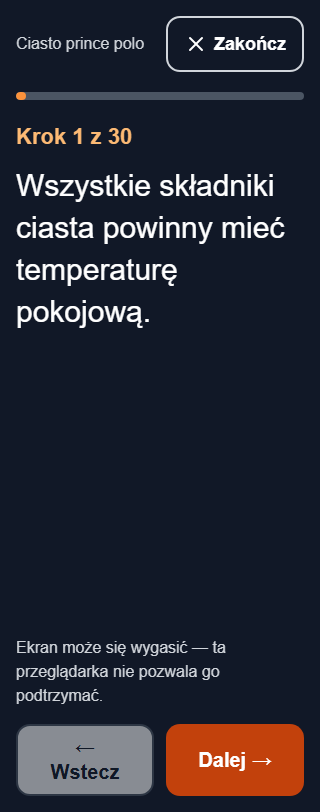
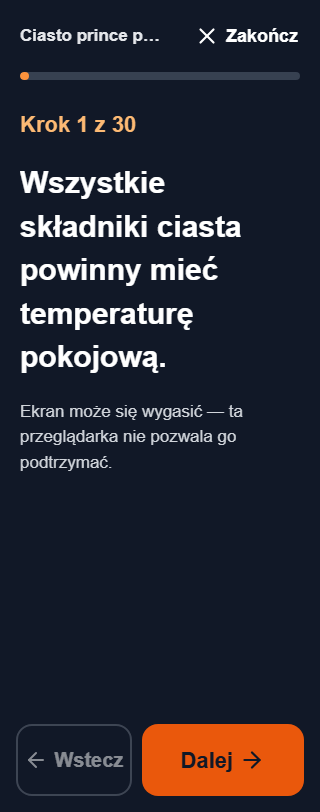
feat(e01-s08): align cooking mode with the design handoff (C3 item 7, C4)

diff --git a/src/app/przepis/[slug]/_components/cooking-mode.tsx b/src/app/przepis/[slug]/_components/cooking-mode.tsx
@@ -1,8 +1,7 @@
 'use client'
 
 import { useCallback, useEffect, useRef, useState } from 'react'
-import { ChefHat, X } from 'lucide-react'
-import { buttonClasses } from '@/app/components/ui/button'
+import { ArrowLeft, ArrowRight, Check, ChefHat, Sun, X } from 'lucide-react'
 import { clampStep, isLastStep, progressRatio, progressSegments, stepLabel } from '@/lib/cooking-mode'
 import { createScreenWakeLock, type ScreenWakeLock } from '@/lib/wake-lock'
 
@@ -168,13 +167,14 @@ export function CookingMode({ title, steps }: CookingModeProps) {
 
   return (
     <>
+      {/* Handoff C3 item 7: dark, 58 px, full width (white on #111827). */}
       <button
         type="button"
         ref={triggerRef}
         onClick={start}
         aria-haspopup="dialog"
         aria-controls="cooking-mode"
-        className={`${buttonClasses('primary', 'lg')} w-full sm:w-auto`}
+        className="inline-flex min-h-[58px] w-full items-center justify-center gap-2.5 rounded-field bg-ink px-5 text-[19px] font-bold text-white hover:bg-ink-soft"
       >
         <ChefHat aria-hidden="true" className="h-6 w-6" />
         Tryb gotowania
@@ -196,13 +196,14 @@ export function CookingMode({ title, steps }: CookingModeProps) {
         // because the global rule is unlayered and would beat a layered utility).
         className="fixed inset-0 m-0 h-dvh max-h-none w-full max-w-none bg-surface-dark p-0 text-white backdrop:bg-surface-dark [&_:focus-visible]:outline-accent-dark!"
       >
-        <div className="mx-auto flex h-full max-w-3xl flex-col px-4 pt-4 pb-4 sm:px-8 sm:pt-6">
-          <div className="flex items-center justify-between gap-3">
+        {/* Layout and colours follow the design handoff, screen C4. */}
+        <div className="mx-auto flex h-full max-w-3xl flex-col">
+          <div className="flex items-center justify-between gap-3 py-2 pr-2 pl-5">
             <h2
               id="cooking-mode-title"
               ref={headingRef}
               tabIndex={-1}
-              className="min-w-0 truncate text-[16px] font-normal text-border-card-2"
+              className="min-w-0 truncate text-[17px] font-bold text-border-card"
             >
               <span className="sr-only">Tryb gotowania: </span>
               {title}
@@ -210,9 +211,9 @@ export function CookingMode({ title, steps }: CookingModeProps) {
             <button
               type="button"
               onClick={finish}
-              className="inline-flex min-h-[56px] shrink-0 items-center gap-1.5 rounded-field border-2 border-border-card-2 px-4 text-[18px] font-bold text-white hover:bg-white/10"
+              className="inline-flex min-h-[56px] shrink-0 items-center gap-1.5 rounded-field px-3.5 text-[18px] font-bold text-white hover:bg-white/10"
             >
-              <X aria-hidden="true" className="h-6 w-6" />
+              <X aria-hidden="true" className="h-[26px] w-[26px]" />
               Zakończ
             </button>
           </div>
@@ -224,17 +225,17 @@ export function CookingMode({ title, steps }: CookingModeProps) {
             aria-valuemax={total}
             aria-valuenow={current + 1}
             aria-valuetext={stepLabel(current, total)}
-            className="mt-5 mb-5 flex h-2 gap-1"
+            className="flex h-2 gap-1.5 px-5"
           >
             {segments ? (
               segments.map((state, i) => (
                 <span
                   key={i}
-                  className={`h-full flex-1 rounded-pill ${state === 'todo' ? 'bg-ink-muted' : 'bg-progress'}`}
+                  className={`h-full flex-1 rounded-pill ${state === 'todo' ? 'bg-ink-soft' : 'bg-progress'}`}
                 />
               ))
             ) : (
-              <span className="h-full flex-1 overflow-hidden rounded-pill bg-ink-muted">
+              <span className="h-full flex-1 overflow-hidden rounded-pill bg-ink-soft">
                 <span
                   className="block h-full rounded-pill bg-progress transition-[width] motion-reduce:transition-none"
                   style={{ width: `${progressRatio(current, total) * 100}%` }}
@@ -243,34 +244,50 @@ export function CookingMode({ title, steps }: CookingModeProps) {
             )}
           </div>
 
-          {/* Announced after every "Dalej" / "Wstecz". */}
-          <div aria-live="polite" className="flex min-h-0 flex-1 flex-col">
-            <p className="mb-3 text-[22px] font-bold text-accent-dark">{stepLabel(current, total)}</p>
-            <p className="min-h-0 flex-1 overflow-y-auto text-[30px] leading-[1.4] break-words">{steps[current]}</p>
+          <div className="flex min-h-0 flex-1 flex-col gap-5 px-5 pt-7 pb-4">
+            {/* Announced after every "Dalej" / "Wstecz". */}
+            <div aria-live="polite" className="flex min-h-0 flex-col gap-5">
+              <p className="text-[22px] font-bold text-accent-dark">{stepLabel(current, total)}</p>
+              <p className="min-h-0 overflow-y-auto text-[30px] leading-[1.45] font-semibold text-pretty break-words">
+                {steps[current]}
+              </p>
+            </div>
+            {wakeLock === true && (
+              <p className="flex items-center gap-2 text-[17px] text-border-card-2">
+                <Sun aria-hidden="true" className="h-5 w-5 shrink-0" />
+                Ekran nie wygaśnie podczas gotowania
+              </p>
+            )}
+            {wakeLock === false && (
+              <p className="text-[17px] text-border-card-2">
+                Ekran może się wygasić — ta przeglądarka nie pozwala go podtrzymać.
+              </p>
+            )}
           </div>
 
-          {wakeLock === false && (
-            <p className="mt-3 text-[16px] text-border-card-2">
-              Ekran może się wygasić — ta przeglądarka nie pozwala go podtrzymać.
-            </p>
-          )}
-
-          <div className="mt-4 grid grid-cols-2 gap-3">
+          <div className="grid grid-cols-[1fr_1.4fr] gap-2.5 p-4">
             <button
               type="button"
               onClick={() => go(-1)}
               disabled={current === 0}
-              className={buttonClasses('outline', 'xl')}
+              className="inline-flex min-h-[72px] items-center justify-center gap-1.5 rounded-card border-2 border-border-dark text-[20px] font-bold text-white hover:bg-white/10 disabled:cursor-not-allowed disabled:opacity-50"
             >
-              ← Wstecz
+              <ArrowLeft aria-hidden="true" className="h-6 w-6" />
+              Wstecz
             </button>
+            {/* #ea580c only ever with dark text (5.6:1), never white. */}
             <button
               type="button"
               ref={nextRef}
               onClick={() => (last ? finish() : go(1))}
-              className={buttonClasses('primary', 'xl')}
+              className="inline-flex min-h-[72px] items-center justify-center gap-1.5 rounded-card bg-orange-bright text-[22px] font-bold text-ink hover:bg-progress"
             >
-              {last ? 'Gotowe ✓' : 'Dalej →'}
+              {last ? 'Gotowe' : 'Dalej'}
+              {last ? (
+                <Check aria-hidden="true" className="h-[26px] w-[26px]" />
+              ) : (
+                <ArrowRight aria-hidden="true" className="h-[26px] w-[26px]" />
+              )}
             </button>
           </div>
         </div>

diff --git a/src/app/przepis/[slug]/_components/recipe-checklists.tsx b/src/app/przepis/[slug]/_components/recipe-checklists.tsx
@@ -12,6 +12,7 @@ import {
   type ChecklistKind,
 } from '@/lib/recipe-checklist'
 import type { Ingredient } from '@/lib/ingredients'
+import { CookingMode } from './cooking-mode'
 
 interface IngredientGroup {
   section: string | null
@@ -20,6 +21,8 @@ interface IngredientGroup {
 
 interface RecipeChecklistsProps {
   recipeId: number
+  /** Recipe title, shown at the top of cooking mode. */
+  title: string
   ingredientGroups: IngredientGroup[]
   steps: string[]
 }
@@ -58,8 +61,9 @@ function CheckRow({
 /**
  * Składniki + Przygotowanie for the recipe page (E01-S07): ticks are kept per tab in
  * sessionStorage, steps read "Krok N z M", and "Wielkość tekstu" scales both lists.
+ * "Tryb gotowania" (E01-S08) follows "Wielkość tekstu", as in the design handoff (C3, item 7).
  */
-export function RecipeChecklists({ recipeId, ingredientGroups, steps }: RecipeChecklistsProps) {
+export function RecipeChecklists({ recipeId, title, ingredientGroups, steps }: RecipeChecklistsProps) {
   const { level, setLevel, scaleStyle } = useTextScale()
   const [raw, setRaw] = useSessionStorage(checklistStorageKey(recipeId))
   const state = useMemo(() => parseChecklist(raw), [raw])
@@ -86,6 +90,12 @@ export function RecipeChecklists({ recipeId, ingredientGroups, steps }: RecipeCh
           </button>
         )}
       </div>
+
+      {steps.length > 0 && (
+        <div className="mb-8">
+          <CookingMode title={title} steps={steps} />
+        </div>
+      )}
 
       <section aria-labelledby="ingredients-heading" className="mb-10">
         <h2 id="ingredients-heading" className="mb-3 text-[26px] font-bold text-ink">

diff --git a/src/app/przepis/[slug]/_components/recipe-actions.tsx b/src/app/przepis/[slug]/_components/recipe-actions.tsx
@@ -1,23 +1,20 @@
 import { FavoriteButton } from '@/app/components/favorite-button'
-import { CookingMode } from './cooking-mode'
 
 interface RecipeActionsProps {
   recipeId: number
   isFavorite: boolean
   isAuthenticated: boolean
-  title: string
-  steps: string[]
 }
 
 /**
  * The recipe page's action row (E01-S07). The heart's behaviour belongs to E01-S06
- * (FavoriteButton is passed through unchanged); "Tryb gotowania" is E01-S08.
+ * (FavoriteButton is passed through unchanged). E01-S08's "Tryb gotowania" sits below
+ * "Wielkość tekstu" in RecipeChecklists (design handoff C3, item 7).
  */
-export function RecipeActions({ recipeId, isFavorite, isAuthenticated, title, steps }: RecipeActionsProps) {
+export function RecipeActions({ recipeId, isFavorite, isAuthenticated }: RecipeActionsProps) {
   return (
     <div className="mb-8 flex flex-wrap items-center gap-3">
       <FavoriteButton recipeId={recipeId} initialFavorited={isFavorite} isAuthenticated={isAuthenticated} />
-      <CookingMode title={title} steps={steps} />
     </div>
   )
 }

diff --git a/src/app/przepis/[slug]/page.tsx b/src/app/przepis/[slug]/page.tsx
@@ -172,10 +172,13 @@ export default async function RecipeDetailPage({ params, searchParams }: RecipeD
           recipeId={typedRecipe.id}
           isFavorite={isFavorite}
           isAuthenticated={Boolean(user)}
+        />
+        <RecipeChecklists
+          recipeId={typedRecipe.id}
           title={typedRecipe.title}
+          ingredientGroups={ingredientGroups}
           steps={steps}
         />
-        <RecipeChecklists recipeId={typedRecipe.id} ingredientGroups={ingredientGroups} steps={steps} />
 
         {typedRecipe.youtube_id && (
           <section className="mb-12">

diff --git a/src/app/globals.css b/src/app/globals.css
@@ -38,6 +38,7 @@
   --color-surface-2: #f9fafb;
   --color-surface-3: #f3f4f6;
   --color-surface-dark: #111827;
+  --color-border-dark: #6b7280;  /* outlined button on surface-dark (3:1+) */
   --color-border-card: #e5e7eb;
   --color-border-card-2: #d1d5db;
   --color-field: #4b5563;        /* form field border, 2px */
